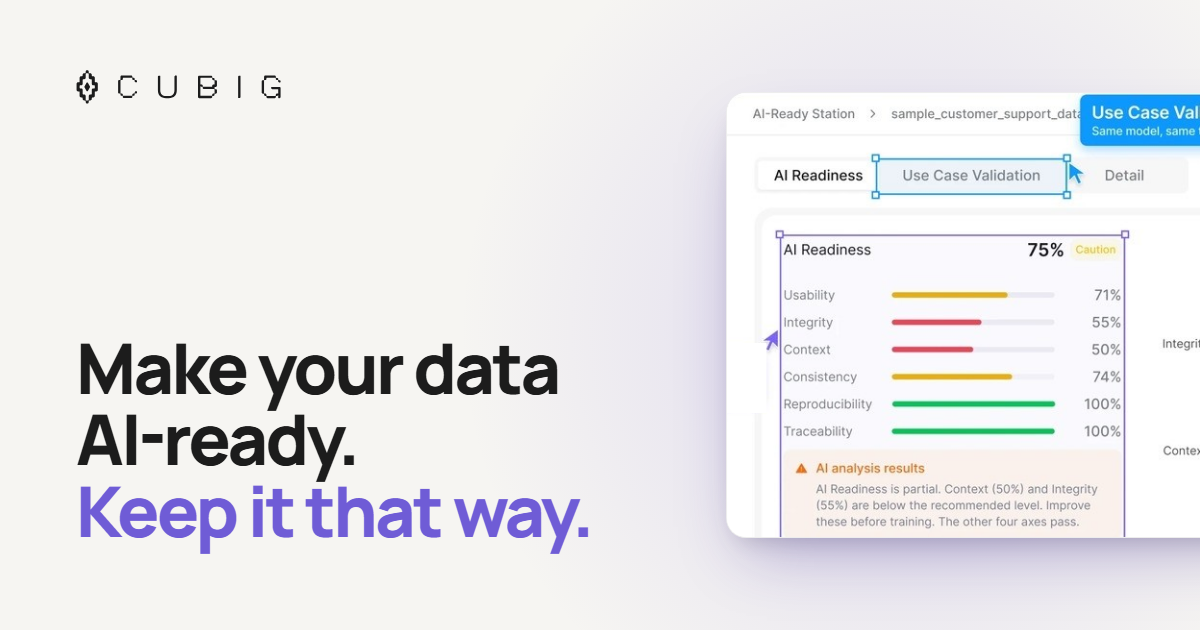
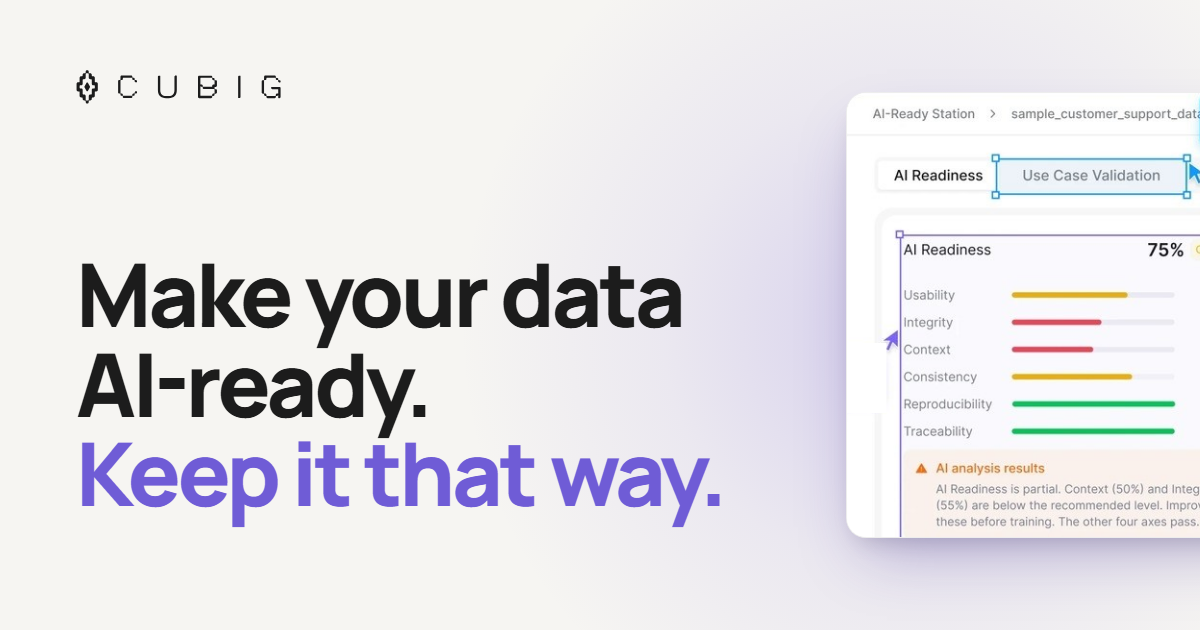
OG image: larger headline

Changed region(s): [[0.0617, 0.1206, 1.0, 0.9048], [0.8633, 0.3619, 1.0, 0.4222]]

diff --git a/index.html b/index.html
@@ -18,7 +18,7 @@
 <meta property="og:url" content="https://meet-cubig.github.io/oracle-ai-world-2026/">
 <meta property="og:title" content="CUBIG · Oracle AI World 2026 · Booth #2032">
 <meta property="og:description" content="Booth #2032 · The Venetian Expo, Las Vegas · Oct 25–28. Make your data AI-ready and keep it that way.">
-<meta property="og:image" content="https://meet-cubig.github.io/oracle-ai-world-2026/og.png?v=4">
+<meta property="og:image" content="https://meet-cubig.github.io/oracle-ai-world-2026/og.png?v=5">
 <meta property="og:image:type" content="image/png">
 <meta property="og:image:width" content="1200">
 <meta property="og:image:height" content="630">
@@ -27,7 +27,7 @@
 <meta name="twitter:card" content="summary_large_image">
 <meta name="twitter:title" content="CUBIG · Oracle AI World 2026 · Booth #2032">
 <meta name="twitter:description" content="Booth #2032 · The Venetian Expo, Las Vegas · Oct 25–28. Make your data AI-ready and keep it that way.">
-<meta name="twitter:image" content="https://meet-cubig.github.io/oracle-ai-world-2026/og.png?v=4">
+<meta name="twitter:image" content="https://meet-cubig.github.io/oracle-ai-world-2026/og.png?v=5">
 <link rel="preconnect" href="https://fonts.googleapis.com">
 <link rel="preconnect" href="https://fonts.gstatic.com" crossorigin>
 <link rel="stylesheet" href="https://fonts.googleapis.com/css2?family=Inter:wght@400;500;600;700&family=Manrope:wght@500;600;700;800&display=swap">
